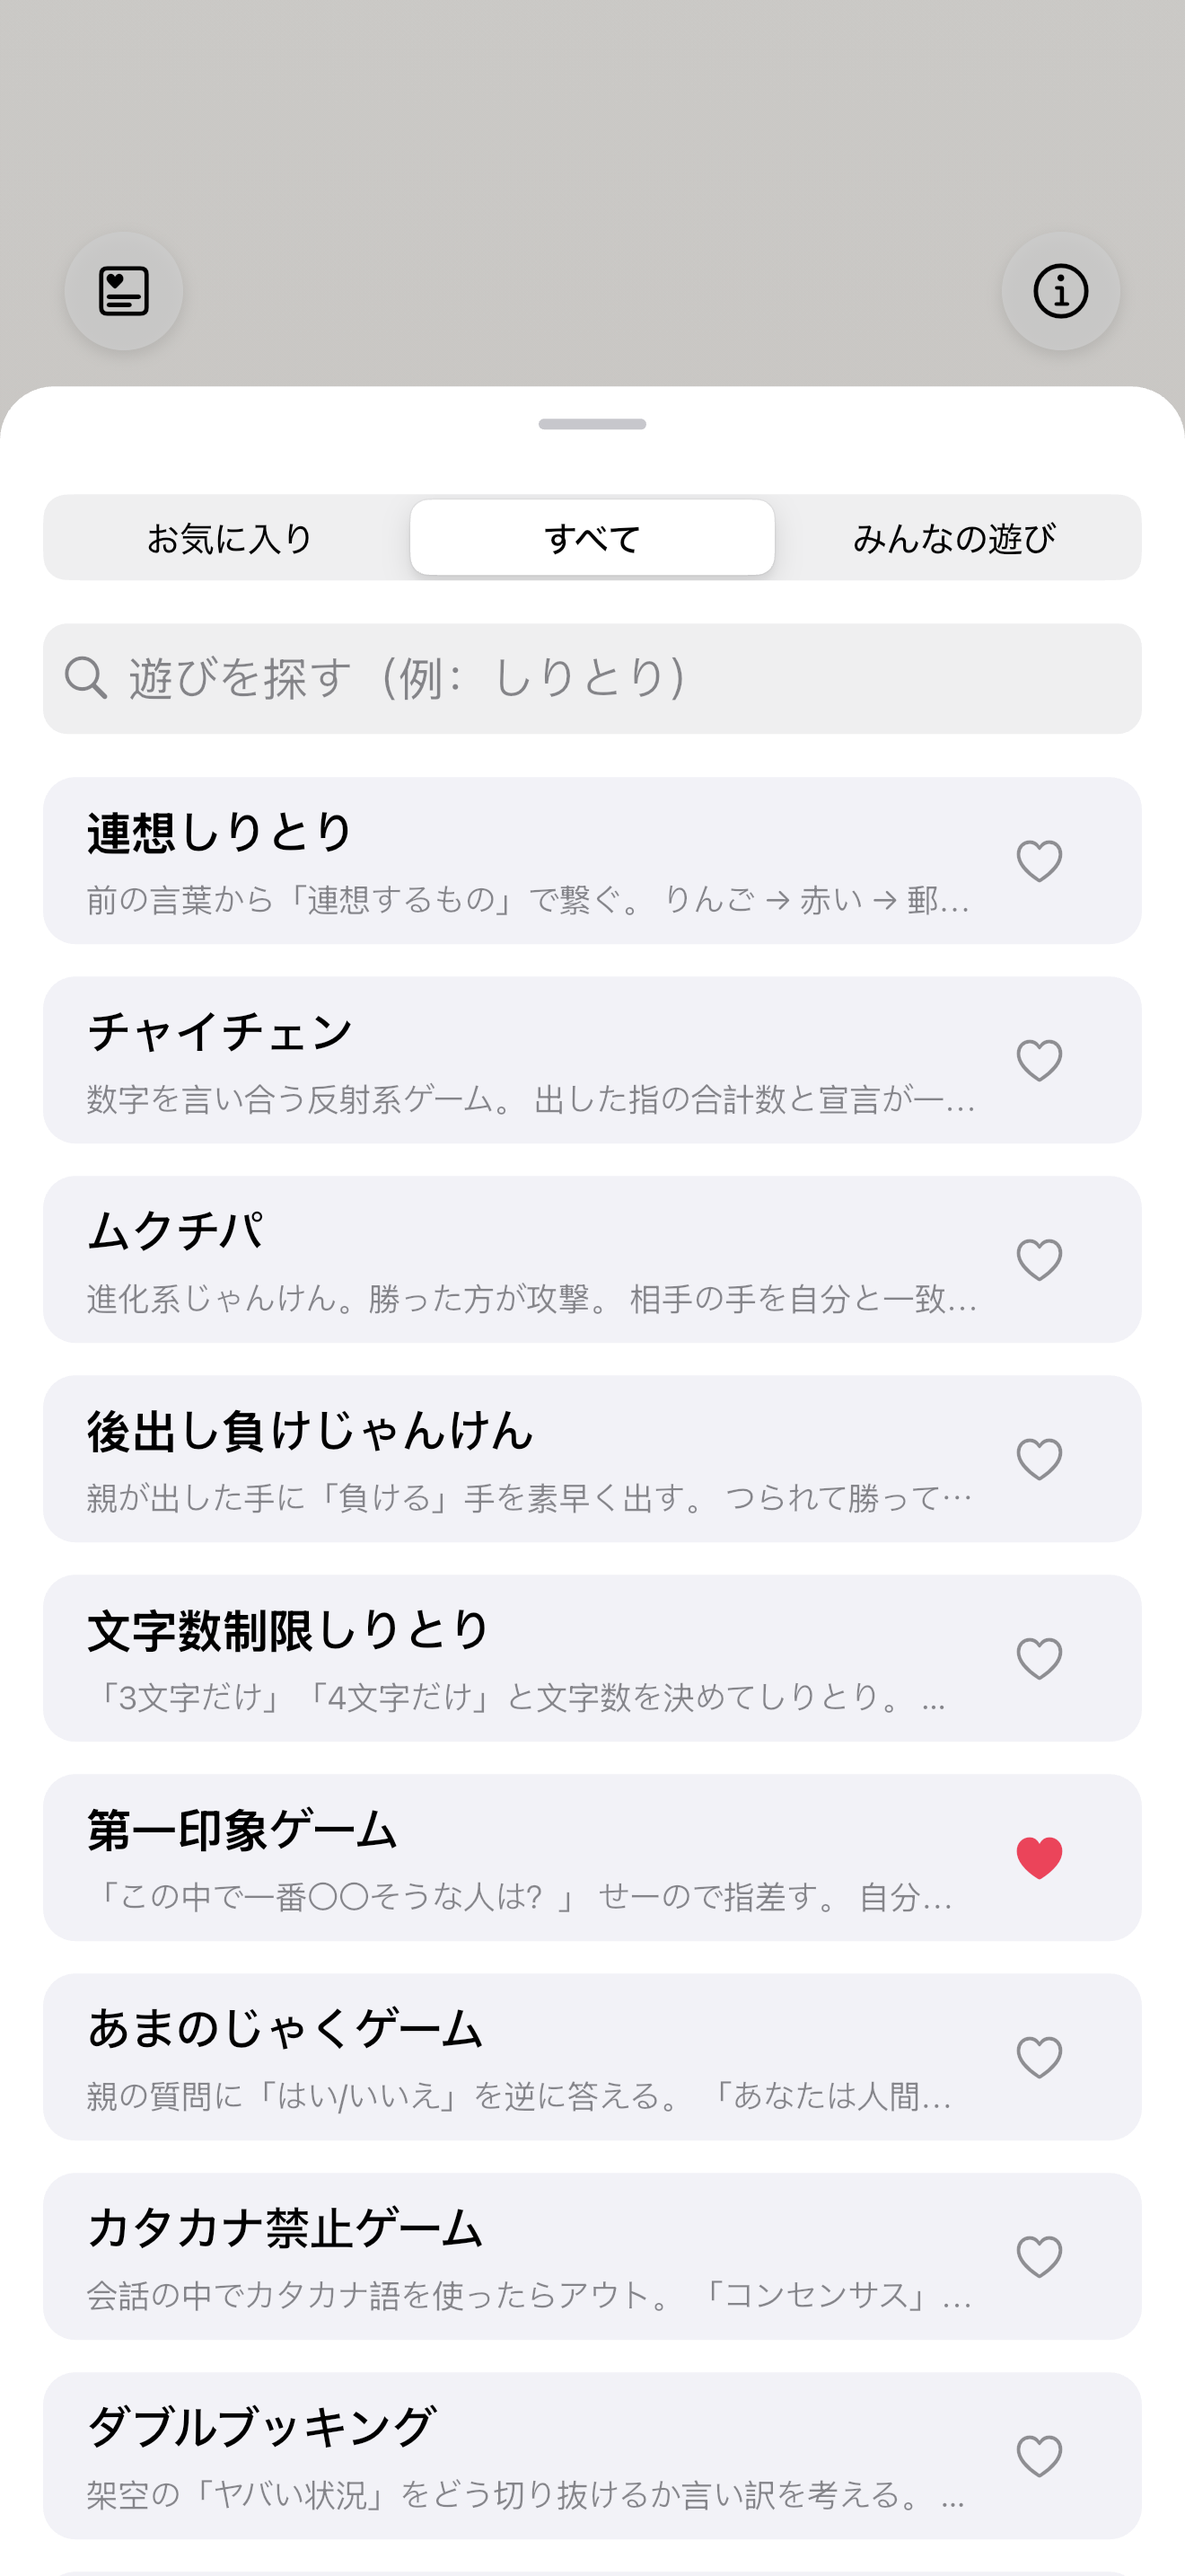
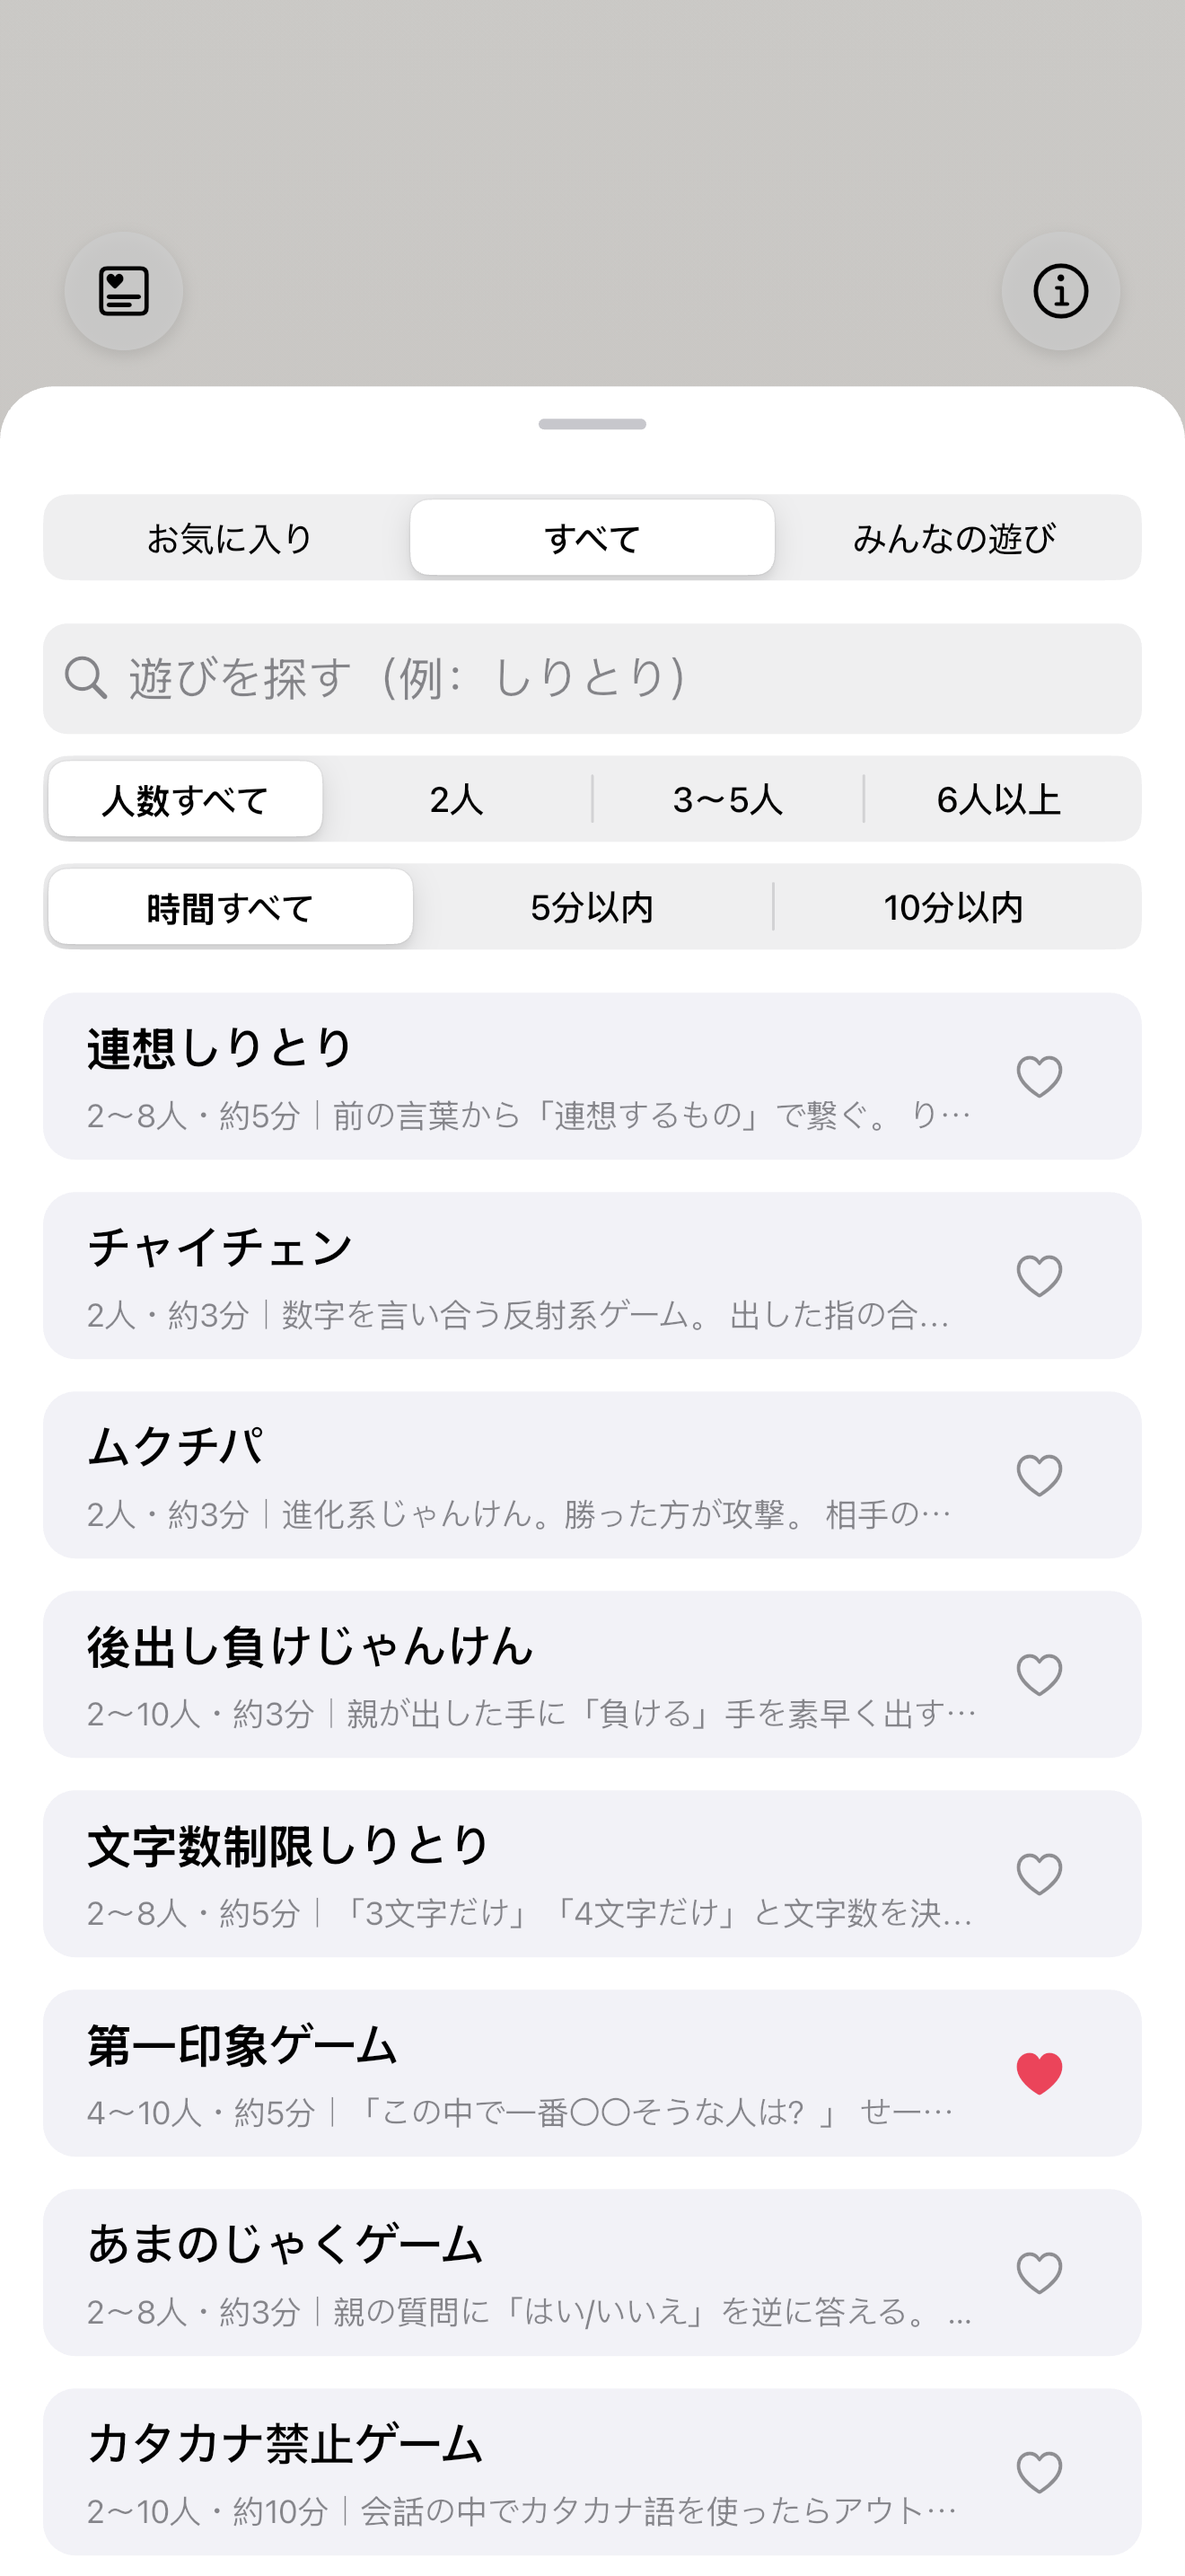
2.1 の機能を 2.0.1 に含めて出す（リリースノート・説明文・スクリーンショット） (#4)
* Ship the 2.1 features as 2.0.1

2.0.1 has not been submitted yet, so the new features go into it. Release
notes and description mention the people/time filter, AI ratings and the
offline community list.

Claude-Session: https://claude.ai/code/session_01A3LDBdECrMW2r9U2ddQ4Y5

* Update App Store screenshots

---------

diff --git a/docs/RELEASE_2.1.md b/docs/RELEASE_2.1.md
@@ -1,4 +1,6 @@
-# Preplay 2.1
+# Preplay 2.1 の機能（2.0.1 に含めて出す）
+
+2.0.1 をまだ審査に出していなかったので、ここに書いた機能は 2.0.1 に入れて出す（2026-10-26 に決定）。バージョン番号は 2.0.1 のまま。ストアのリリースノートと説明文は `appstore/metadata.yaml` に反映済み。
 
 ## 変わったこと
 
@@ -10,7 +12,6 @@
 | AI の遊びに 👍👎 | AI が作った遊びの下に「この遊びはどうでしたか？」。評価は Supabase の `ai_feedback` に入り、週間レポートに 👍 が多い遊び（「みんなの遊び」に載せる候補）と 👎 が多い遊び（AI への指示を直す材料）が出る |
 | 電波がなくても困らない | 公式の 42 種類はもともとアプリ内にあり、オフラインでも遊べる。加えて、「みんなの遊び」は前回読み込んだ一覧を端末に残して表示する。AI が使えないときは「インターネットにつながっていない」「使いすぎ（1 分待つ）」と理由を出す |
 
-バージョンはまだ 2.0.1 のまま（下の「オーナーの作業」2 で 2.1.0 に上げる）。
 
 ## マージしたあとに自動で起きること
 
@@ -21,15 +22,11 @@
 
 ## オーナーの作業
 
-1. **バックエンドの再デプロイ**（マージしたあと。Vercel の `preplay` は Git と連携していないので、自動ではデプロイされない）
-   - `cd backend && vercel --prod`、または頼んでもらえれば私がやります
-   - 数を数えるための環境変数 `SUPABASE_URL` と `SUPABASE_ANON_KEY`（`config/app_config.json` と同じ公開用の値）は、Vercel に設定済み（2026-10-26）。未設定でも AI 生成は今までどおり動き、数えないだけ
-2. **2.0.1 が審査を通って公開されたあとで**、`pubspec.yaml` を `2.1.0+11`、`appstore/metadata.yaml` の `version.versionString` を `2.1.0` にし、`whatsNew` を下の文面にする PR を作る（両者の一致はテストで確かめている。審査中のバージョンがあるあいだは新しいバージョンを作れないので、この PR では上げていない）。スクリーンショットも撮り直す（「すべて」タブが変わった）。頼んでもらえれば私がやります
-3. **App のプライバシーの申告**に、👍👎 の分を足す
-   - 「使用状況データ」→「製品の操作」: 目的「アプリの機能」と「分析」、ユーザーにリンクしない、トラッキングに使わない
-4. ビルドと提出は 2.0.1 と同じ（[RELEASE.md](RELEASE.md)）
+1. App Store Connect で、2.0.1 に **この機能が入ったビルド**（2026-10-26 に `iOS release` で作ったもの。前の 202610260138 ではない）を選ぶ
+2. **App のプライバシーの申告**に、👍👎 の分を足す: 「使用状況データ」→「製品の操作」。目的は「アプリの機能」と「分析」、ユーザーにリンクしない、トラッキングに使わない
+3. 審査へ提出（[RELEASE.md](RELEASE.md)）
 
-## リリースノート（案）
+## リリースノート（案。2.0.1 の whatsNew に統合済み）
 
 ```
 ・「すべて」で、人数と時間から遊びを選べるようになりました
